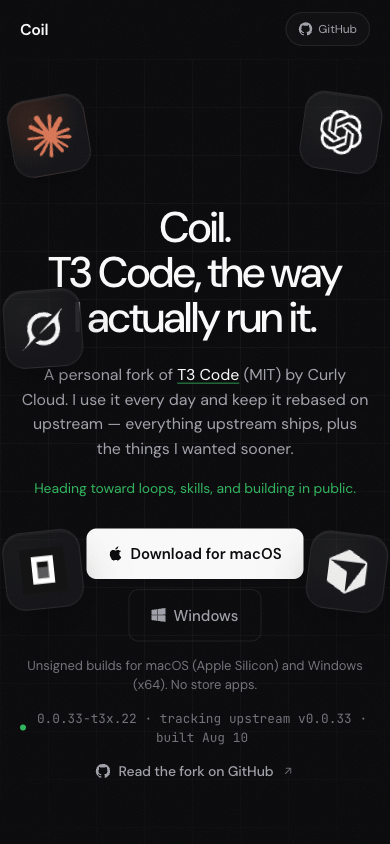
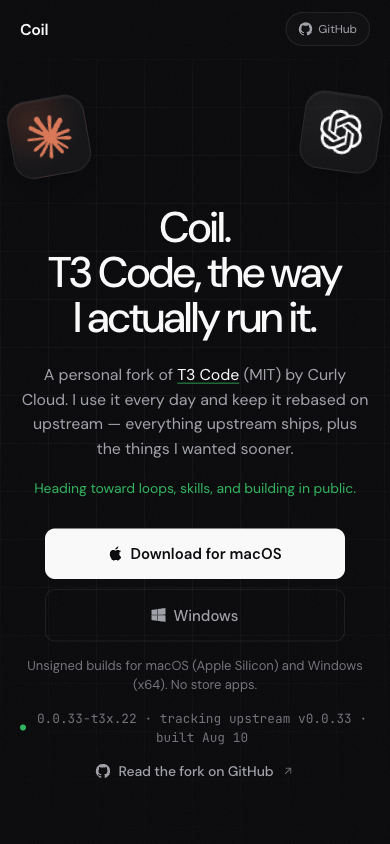
docs(coil): recapture mobile evidence after the collision fix

diff --git a/docs/t3x/evidence/2026-08-10-coil-homepage/README.md b/docs/t3x/evidence/2026-08-10-coil-homepage/README.md
@@ -21,7 +21,7 @@ release identity was not. Issue #71 covers that, and it is deliberately out of s
 | `04-ask.png`         | The feature-request CTA.                                               |
 | `06-download.png`    | Real version, real byte sizes, real changelog from the relay.          |
 | `07-404.png`         | The 404 page.                                                          |
-| `08-` … `10-`        | Hero, roadmap, and download at 390px.                                  |
+| `08-` … `11-`        | Hero, roadmap, download and CTA at 390px, after the mobile fix.        |
 
 ## What to look for
 
@@ -35,6 +35,15 @@ release identity was not. Issue #71 covers that, and it is deliberately out of s
   border style. Loops are the direction, not a feature.
 - **Gone:** the fork graph, and the "If you don't like something, fork it" section. The second was
   redundant on a page that is itself a fork.
+
+## Mobile fix, 2026-08-10
+
+The first mobile capture showed upstream's five floating harness marks colliding with this hero,
+which is taller than the one they were positioned against: `hf-grok` over the headline (3,468 px²)
+and `hf-opencode` / `hf-cursor` over the download buttons (~5,700 px² each) at 390px. The three that
+collide are now hidden below 820px; the two top-corner marks stay. Separately, the button rows
+wrapped to their content widths — a 217px button above a 133px one — and now stack as one column at
+equal width below 480px. Re-measured at 320, 390 and 430: zero overlap, equal widths, no overflow.
 
 ## How these were produced
 
